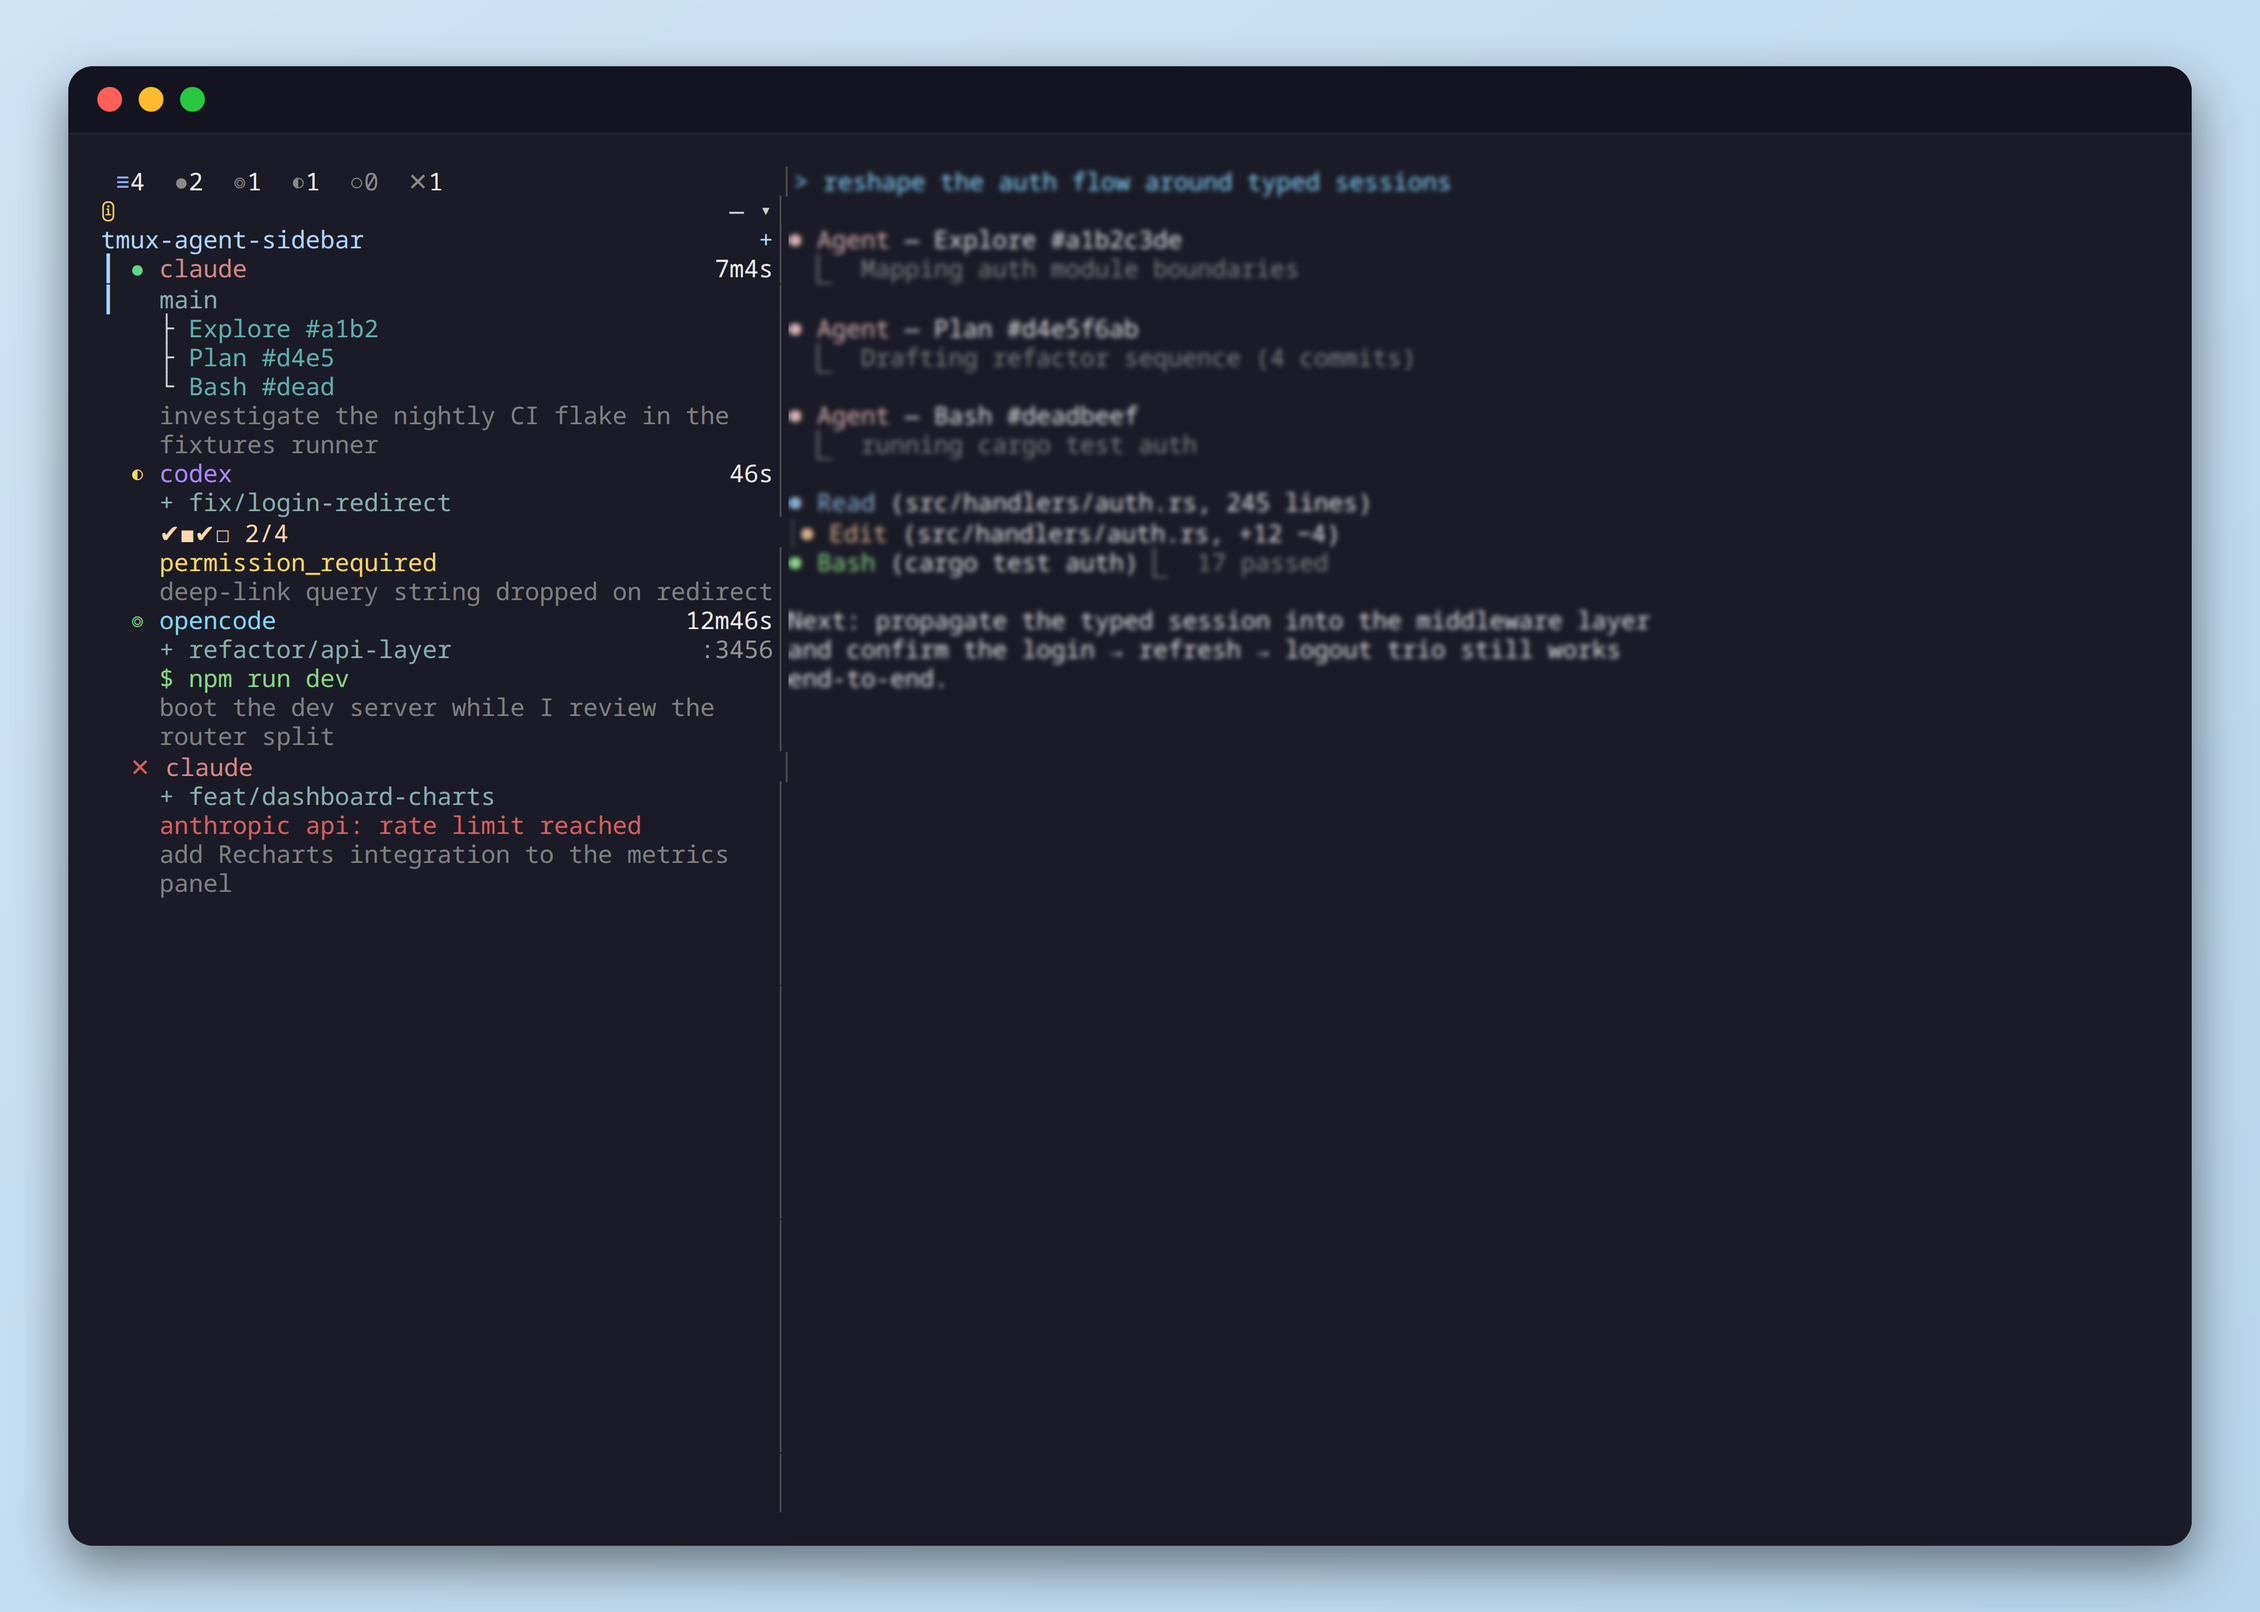
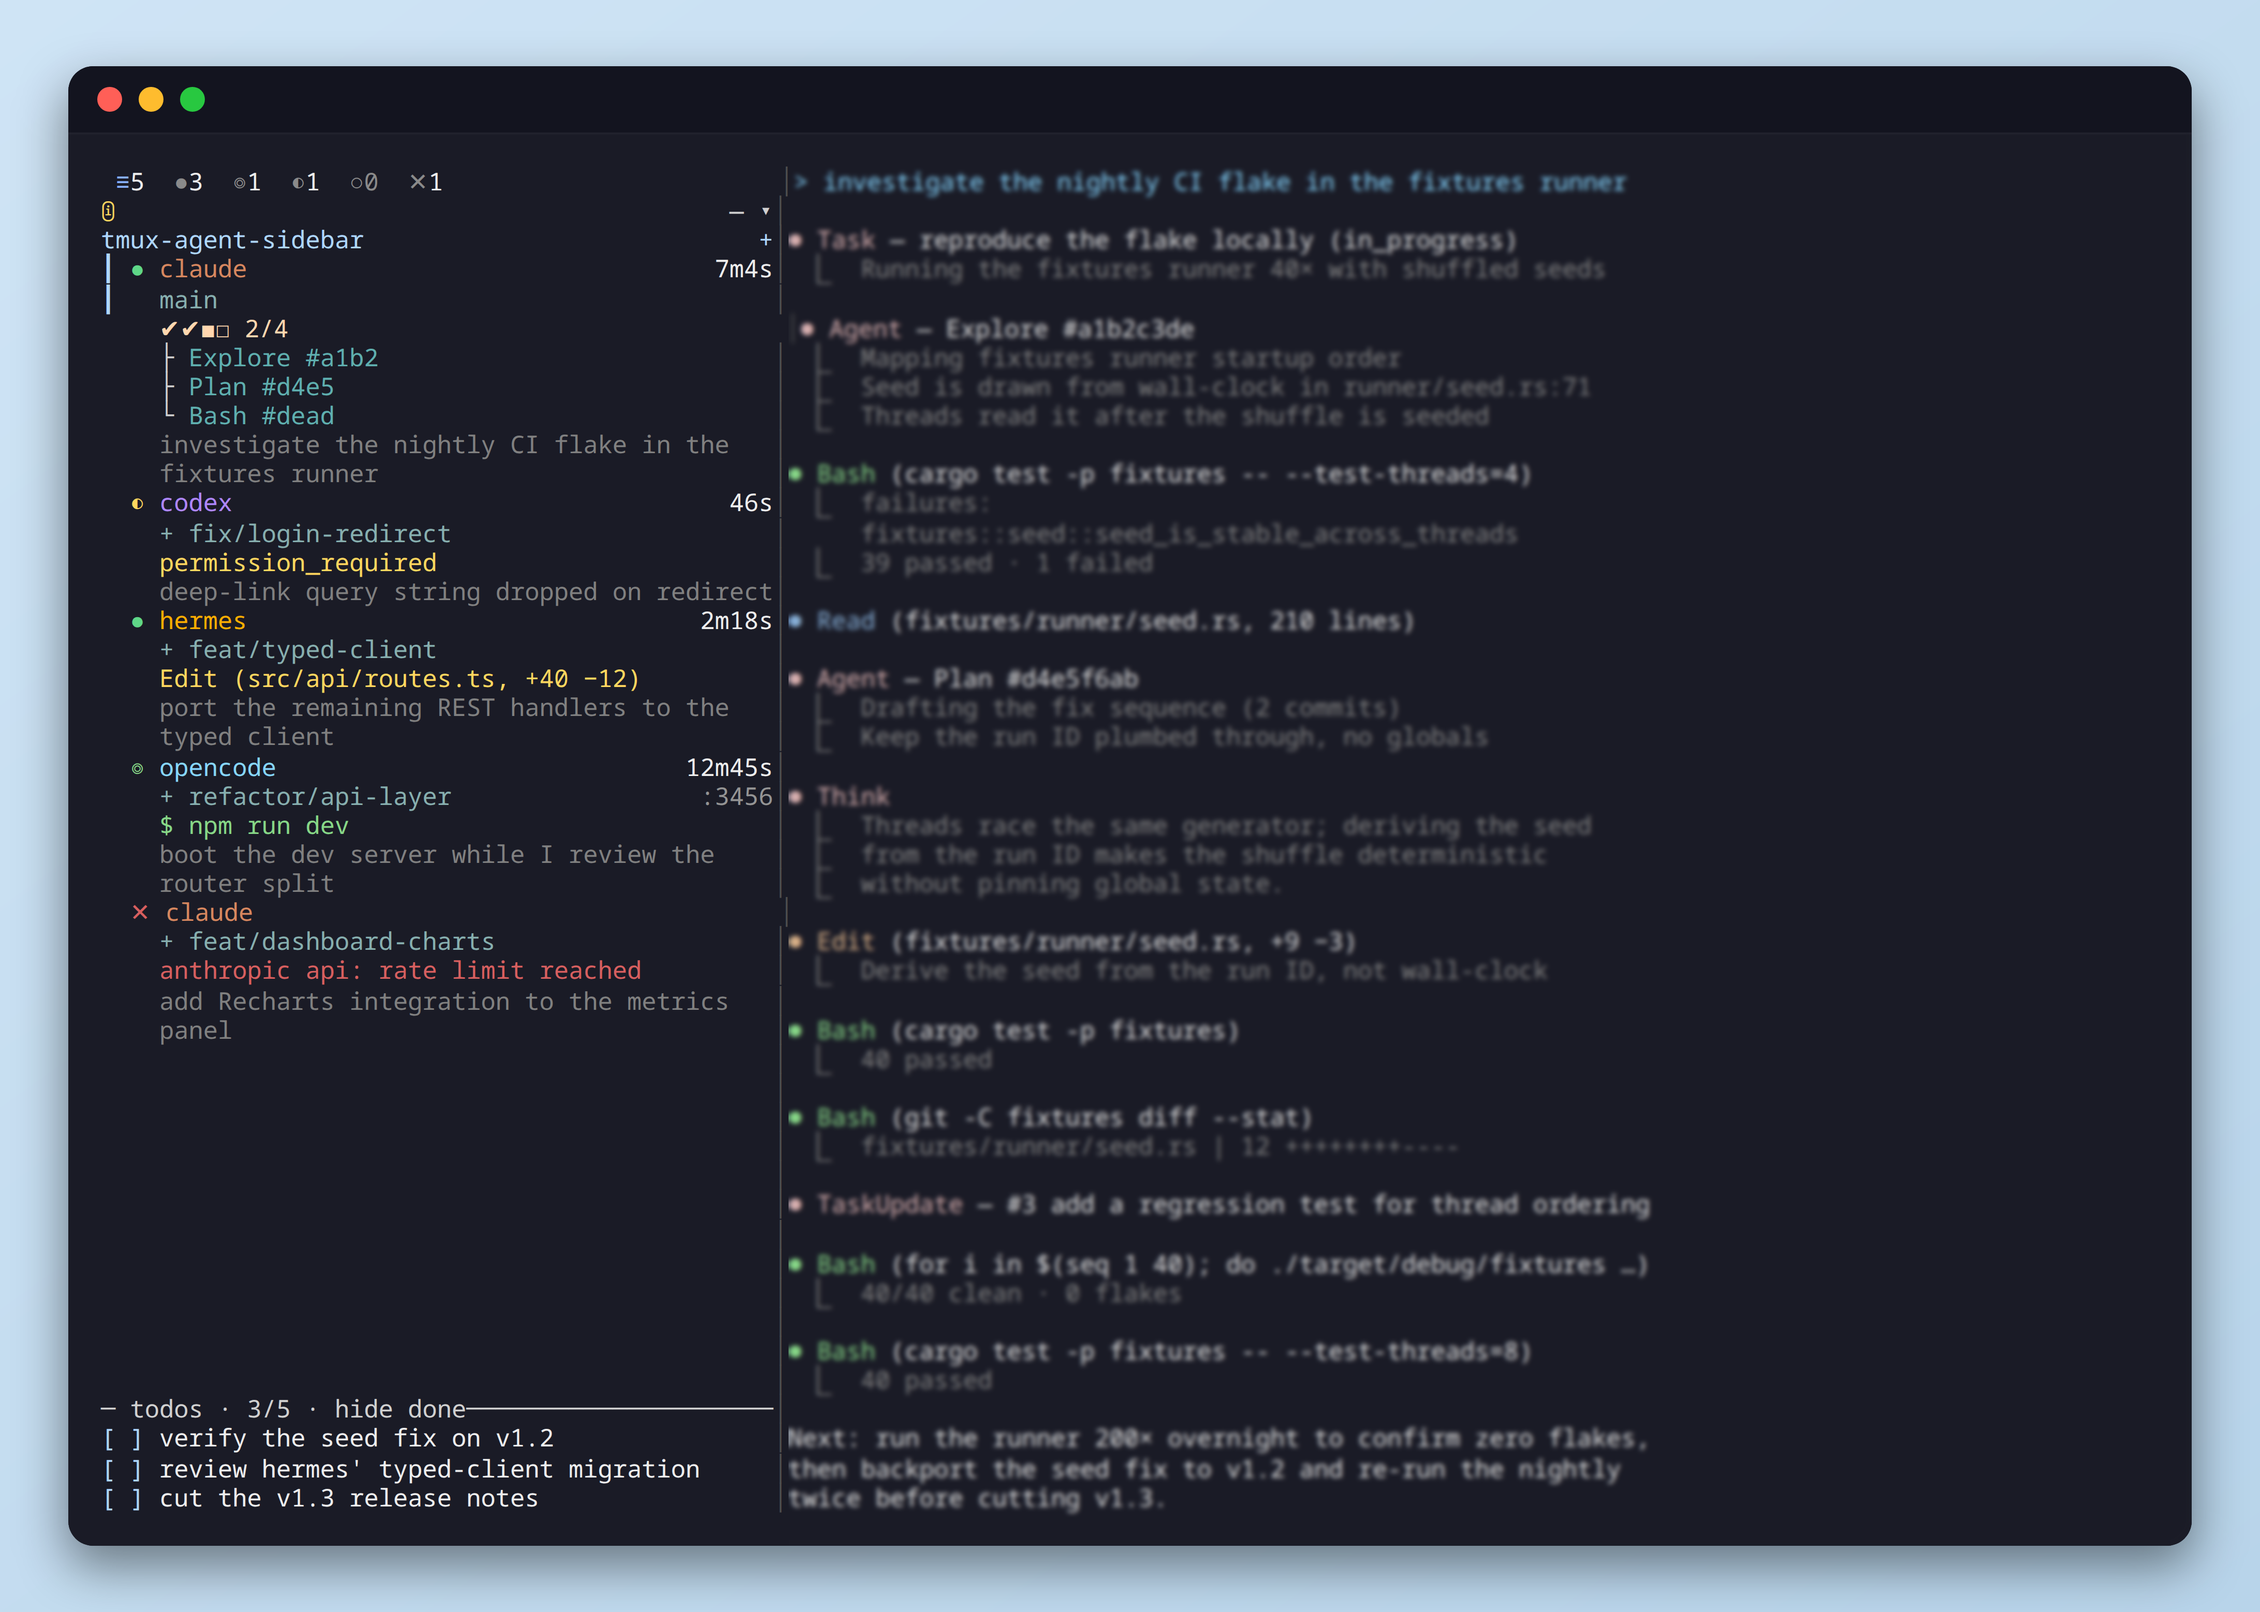
Redesign the hero capture: 5-agent v1.3 release-prep scene (#84)
Per the hero design notes: fill the 60%-empty right pane with a full
Claude transcript and feature the fork's two flagship additions.

fixtures/scenarios/common/_lib.sh:
- HERMES=1 adds a fifth agent pane (hermes, running) to the extras
  window between the waiting and background panes; row order follows
  window→pane index so the sidebar reads claude/codex/hermes/
  opencode/error. The hermes row's activity line (Edit (…, +40 −12))
  rides the wait-reason slot, which renders on any status.
- SCENARIO_CWD points the agent panes at another checkout so captures
  from a worktree keep git-derived labels (branch, ahead/behind)
  reading the main checkout.
- XDG_RUNTIME_DIR/XDG_STATE_HOME now redirect into the throwaway dir,
  so seeded activity logs and TODO lists never touch shared state
  (setup's clean-slate rm used to hit the user's real runtime dir).
- paint_stream no longer forces a trailing newline: a stream sized to
  the pane height now fills the last row exactly instead of scrolling
  the top line off.
- fake hermes symlink in FAKE_BIN_DIR.

fixtures/scenarios/hero/:
- FOCUS=MAIN_PANE (Claude transcript on the right), HERMES=1.
- New 46-line main-pane.stream matching the pane height exactly.
- Claude activity log seeds the 2/4 task progress; hermes log seeds
  the surfaced Edit.
- Todos seeded under the isolated XDG_STATE_HOME (3 open of 5,
  hide-completed default) and the panel opened via
  @sidebar_todo_visible.
[…]

diff --git a/.claude/skills/regenerate-captures/SKILL.md b/.claude/skills/regenerate-captures/SKILL.md
@@ -19,7 +19,8 @@ If your change does **not** affect the visible output (pure logic refactor, test
 
 ```
 fixtures/scenarios/<name>/scenario.sh
-  → sources common/_lib.sh (build_layout seeds 4 panes: MAIN, WAITING, BACKGROUND, ERROR)
+  → sources common/_lib.sh (build_layout seeds 4 panes: MAIN, WAITING, BACKGROUND, ERROR;
+    the hero sets HERMES=1 for a fifth — Hermes, running — between WAITING and BACKGROUND)
   → launches real sidebar binary (`target/release/tmux-agent-sidebar`)
   → `capture` subcommand writes <name>.html into a tmp dir
     → scripts/render-frames.mjs (Playwright) converts .html → .png
@@ -32,7 +33,7 @@ For `hero`, an additional `scripts/hero-compose.mjs` pass produces `og-image.png
 
 | Scenario | Output PNG | Crop |
 |---|---|---|
-| `hero` | `hero.png` (+ `og-image.png`) | full 140×46 canvas |
+| `hero` | `hero.png` (+ `og-image.png`) | full 140×46 canvas; v1.3 release-prep scene — 5 agents (HERMES=1), TODO panel open, Claude transcript filling the right pane |
 | `agent-pane-focus` | `agent-pane-focus.png` | rows 0..26, cols 0..46 (agent list) |
 | `activity-focus` | `activity-focus.png` | rows 26..46, cols 0..46 (Activity tab) |
 | `git-focus` | `git-focus.png` | rows 26..46, cols 0..46 (Git tab) |
@@ -46,7 +47,7 @@ All scenarios share `build_layout` in `_lib.sh`, so a change to the seeded pane 
 
 - Must be on the project root.
 - `cargo`, `node`, `tmux` on PATH.
-- **`hero` must be run from a `main` checkout** — `build_layout` derives the MAIN pane's branch label from `$ROOT` via git. Running `hero` from a feature branch makes the top row read that branch name instead of `main`.
+- **Capturing from a worktree:** pass `SCENARIO_CWD=/path/to/main-checkout` — the agent panes' git-derived labels (the MAIN pane's branch, the repo header's ahead/behind) read that directory. Run without it from a `main` checkout; running `hero` from a feature branch checkout makes the top row read that branch name instead of `main`.
 
 ### 2. Edit the Scenario Source
 
